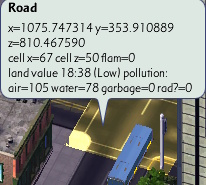
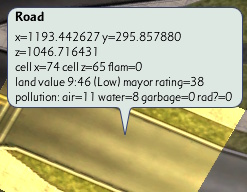
Add mayor rating to the Pollution terrain query
The Pollution terrain query already had the cell land value and
pollution values, so it is the most logical place to include the
mayor rating.

Localized mayor ratings were requested at https://community.simtropolis.com/forums/topic/763515-custom-queries-for-custom-buildings/?page=8&tab=comments#comment-1812011.
A query dialog variable could only show the mayor rating for one cell
on a lot, but adding it to a hover query tool tip bypasses that
limitation.

diff --git a/src/TerrainQueryHooks.cpp b/src/TerrainQueryHooks.cpp
@@ -20,6 +20,7 @@
  */
 
 #include "TerrainQueryHooks.h"
+#include "cISC4AuraSimulator.h"
 #include "cISC4FlammabilitySimulator.h"
 #include "cISC4LandValueSimulator.h"
 #include "cISC4PollutionSimulator.h"
@@ -175,6 +176,11 @@ namespace
 					break;
 				}
 
+				int8_t mayorRating = GetSimGridCellValue(
+					spAuraSimulator->GetAuraGrid(),
+					cellX,
+					cellZ);
+
 				int32_t airPollution = 0;
 				int32_t waterPollution = 0;
 				int32_t garbagePollution = 0;
@@ -186,9 +192,9 @@ namespace
 
 				result = RealRZStringSprintf(
 					rzStringThisPtr,
-					"x=%f y=%f z=%f\ncell x=%d cell z=%d flam=%d\n"
-					"land value %d:%d (%s) pollution:\n"
-					"air=%d water=%d garbage=%d rad?=%d",
+					"x=%f y=%f z=%f\ncell x=%d cell z=%d flam=%u\n"
+					"land value %u:%u (%s) mayor rating=%d\n"
+					"pollution: air=%d water=%d garbage=%d rad?=%d",
 					x,
 					y,
 					z,
@@ -198,6 +204,7 @@ namespace
 					intrinsicLandValue,
 					totalLandValue,
 					landValueDescription,
+					mayorRating,
 					airPollution,
 					waterPollution,
 					garbagePollution,

diff --git a/src/QueryUIHooksDllDirector.cpp b/src/QueryUIHooksDllDirector.cpp
@@ -86,6 +86,7 @@ NetworkQueryToolTipHookServer* spNetworkQueryToolTipHookServer = nullptr;
 PropQueryToolTipHookServer* spPropQueryToolTipHookServer = nullptr;
 
 cRZAutoRefCount<cIGZLanguageManager> spLanguageManager;
+cISC4AuraSimulator* spAuraSimulator = nullptr;
 cISC4FlammabilitySimulator* spFlammabilitySimulator = nullptr;
 cISC4LandValueSimulator* spLandValueSimulator = nullptr;
 cISC4PollutionSimulator* spPollutionSimulator = nullptr;
@@ -202,6 +203,7 @@ public:
 
 		if (pCity)
 		{
+			spAuraSimulator = pCity->GetAuraSimulator();
 			spFlammabilitySimulator = pCity->GetFlammabilitySimulator();
 			spLandValueSimulator = pCity->GetLandValueSimulator();
 			spPollutionSimulator = pCity->GetPollutionSimulator();
@@ -214,6 +216,7 @@ public:
 
 	void PreCityShutdown(cIGZMessage2Standard* pStandardMsg)
 	{
+		spAuraSimulator = nullptr;
 		spFlammabilitySimulator = nullptr;
 		spLandValueSimulator = nullptr;
 		spPollutionSimulator = nullptr;

diff --git a/src/GlobalSC4InterfacePointers.h b/src/GlobalSC4InterfacePointers.h
@@ -23,6 +23,7 @@
 #include "cRZAutoRefCount.h"
 
 class cIGZLanguageManager;
+class cISC4AuraSimulator;
 class cISC4FlammabilitySimulator;
 class cISC4LandValueSimulator;
 class cISC4PollutionSimulator;
@@ -30,6 +31,7 @@ class cISC4WeatherSimulator;
 class cISCStringDetokenizer;
 
 extern cRZAutoRefCount<cIGZLanguageManager> spLanguageManager;
+extern cISC4AuraSimulator* spAuraSimulator;
 extern cISC4FlammabilitySimulator* spFlammabilitySimulator;
 extern cISC4LandValueSimulator* spLandValueSimulator;
 extern cISC4PollutionSimulator* spPollutionSimulator;

diff --git a/README.md b/README.md
@@ -47,8 +47,8 @@ to be for the entire tile instead of varying per-cell.
 
 #### Pollution Terrain Query
 
-This mode is accessed by holding the `Ctrl` key. It shows the flammability, land value, and pollution (air, water,
-garbage, and radiation).    
+This mode is accessed by holding the `Ctrl` key. It shows the flammability, land value, mayor rating, and pollution
+(air, water, garbage, and radiation) for the selected cell.    
 ![Pollution Terrain Query Tool Tip](images/PollutionTerrainQuery.jpg)
 
 ### Advanced Query Tool Tips
